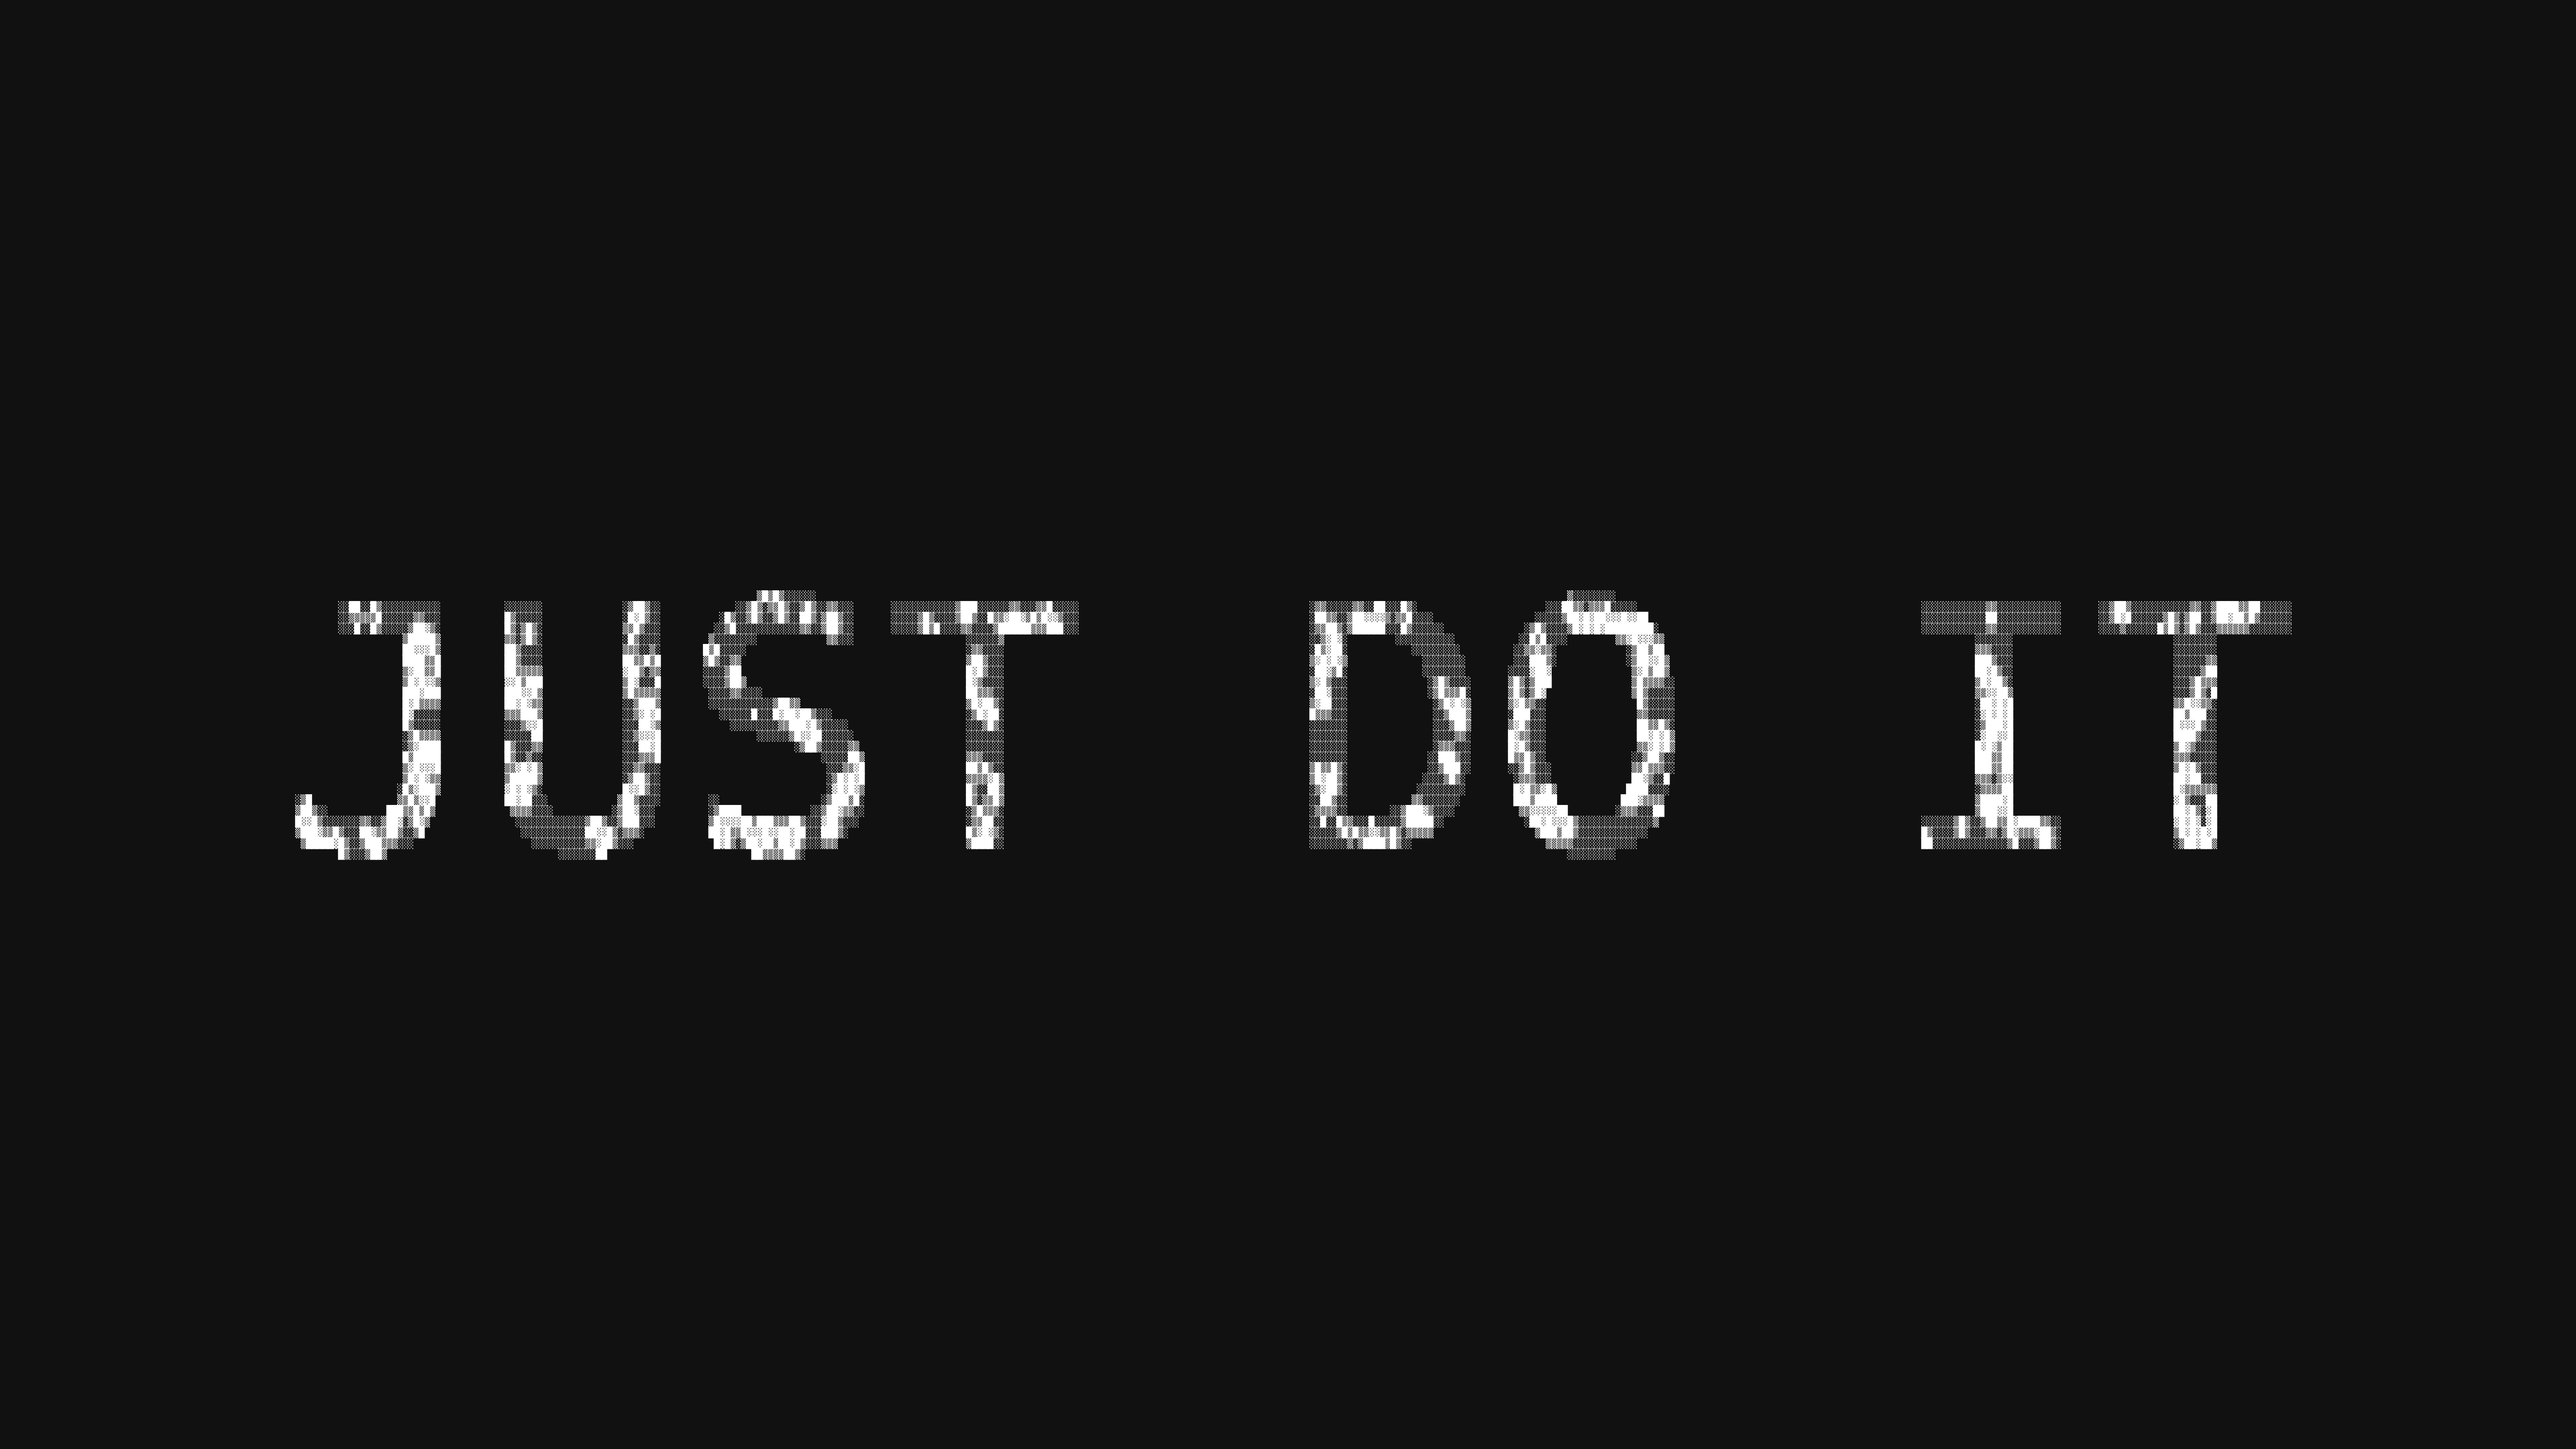
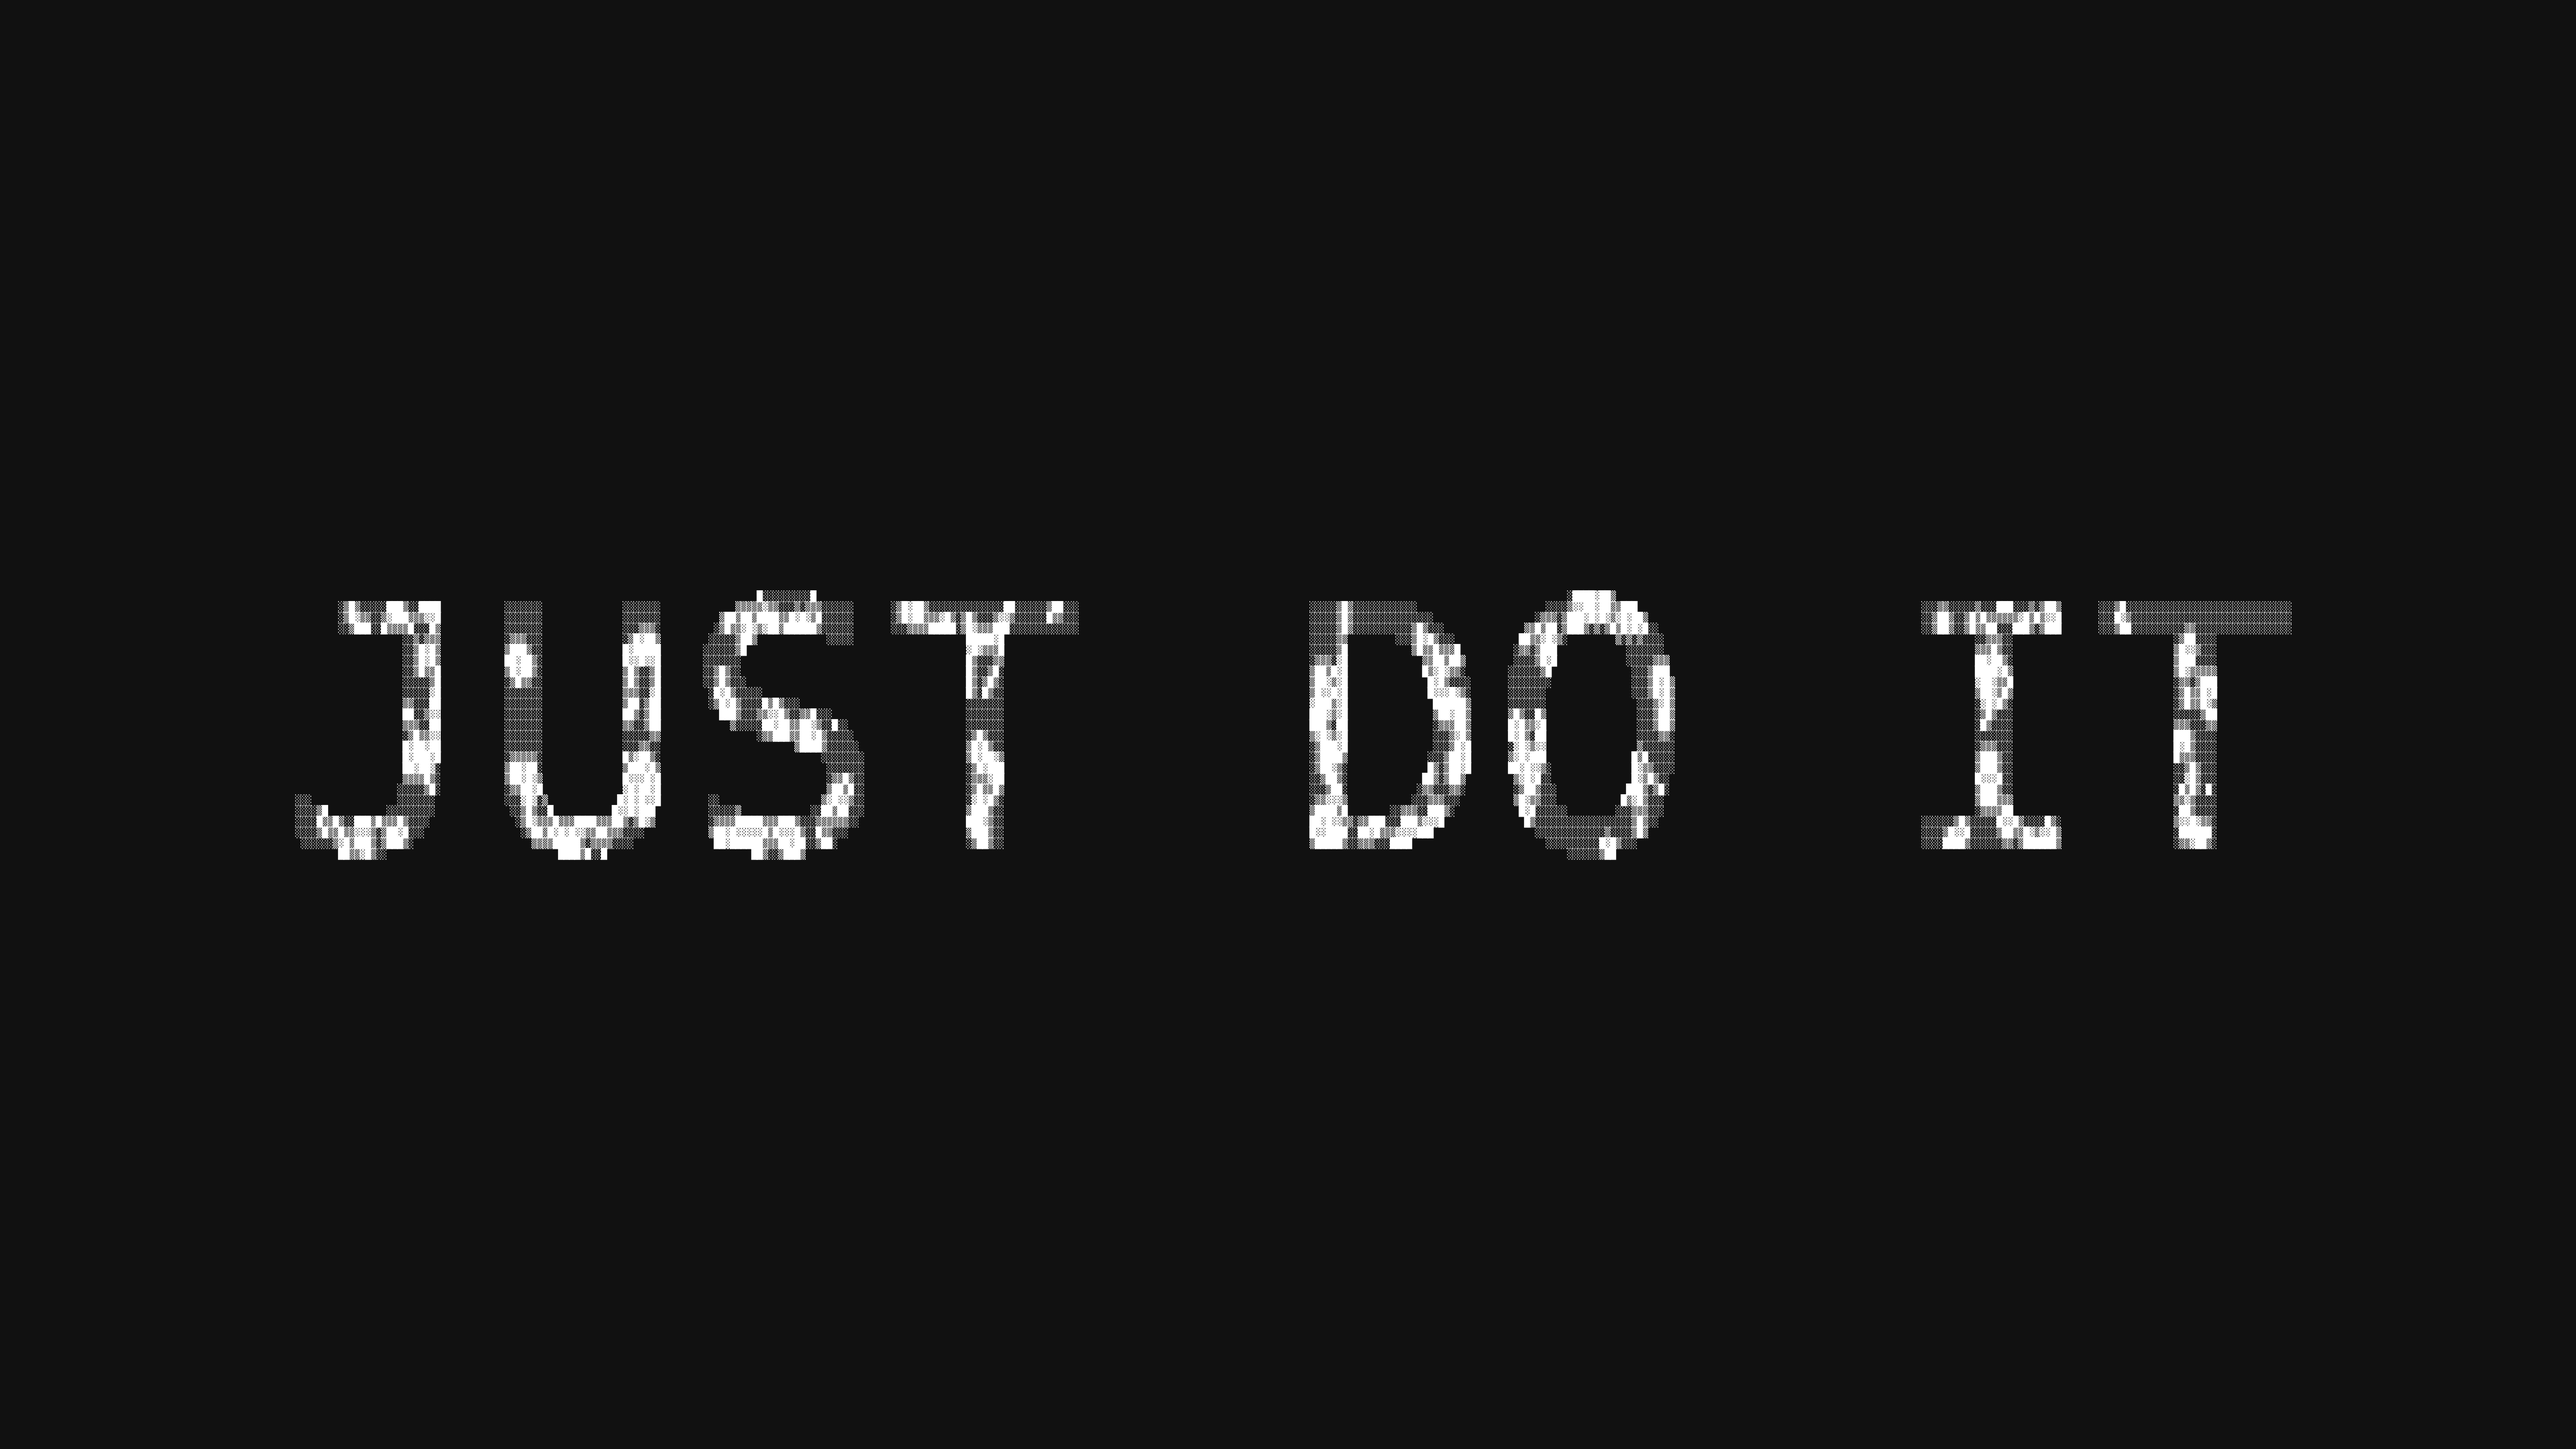
fix: isometric extrusion — proper filled side faces with depth gradient
- Rewrite _pil_isometric() using numpy slice assignment back-to-front layers
- Binarize source at threshold=128 before shifting: eliminates streaking from
  anti-aliased sub-pixel gaps between shifted layers
- Front face uses original anti-aliased pixels for smooth edges
- Brightness ramp: 0.20 (far back) -> 0.58 (nearest front) per layer
- depth_px calculated from depth_fraction * canvas_w (scales with canvas size)
- Result: solid filled side faces, visible depth gradient, clean front face

Changed region(s): [[0.0938, 0.4032, 0.4062, 0.5894], [0.5, 0.4032, 0.6562, 0.5894], [0.75, 0.4032, 0.875, 0.5894]]

diff --git a/scripts/generate_gallery.py b/scripts/generate_gallery.py
@@ -618,34 +618,68 @@ def _pil_isometric(
 ) -> "PIL.Image.Image":
     """Create isometric extrusion effect in image space.
 
+    Renders a filled 3D extrusion by compositing depth_px individual layers
+    back-to-front. Each layer is shifted 1px in the extrusion direction
+    (upper-right or upper-left) and progressively darkened. The front face
+    is rendered last at full brightness, producing a solid side face.
+
+    depth_px is derived from depth_fraction * canvas_w so it scales
+    proportionally with canvas size.
+
     :param text_img: PIL RGB image (white text on black).
     :param depth_fraction: Extrusion depth as fraction of canvas_w (default 0.04).
-    :param direction: 'right' (depth goes up-right) or 'left' (up-left).
+    :param direction: 'right' (extrudes upper-right) or 'left' (upper-left).
     :returns: PIL.Image ready for image_to_ascii().
     """
-    from PIL import Image, ImageEnhance
+    import numpy as np
+    from PIL import Image
 
     w, h = text_img.size
-    depth_px = max(1, int(depth_fraction * w))
+    depth_px = max(2, int(depth_fraction * w))  # e.g. 153px at 3840 wide
 
-    dx = depth_px if direction == "right" else -depth_px
-    depth_img = text_img.transform(
-        text_img.size, Image.AFFINE,
-        (1, 0, -dx, 0, 1, depth_px),
-        Image.BILINEAR, fillcolor=(0, 0, 0),
-    )
-    depth_img = ImageEnhance.Brightness(depth_img).enhance(0.4)
+    # Per-step direction: extrude upper-right (+x, -y) or upper-left (-x, -y)
+    step_x =  1 if direction == "right" else -1
+    step_y = -1  # always goes upward
 
-    import numpy as np
-    out = Image.new("RGB", text_img.size, (0, 0, 0))
-    # Use thresholded masks so anti-aliased edges don't create ghost bleed.
-    # Depth layer: paste only where depth pixels are bright (letter ink, not background)
-    depth_mask = depth_img.convert("L").point(lambda p: 255 if p > 20 else 0)
-    out.paste(depth_img, (0, 0), mask=depth_mask)
-    # Front face: paste only where source text pixels are bright
-    front_mask = text_img.convert("L").point(lambda p: 255 if p > 20 else 0)
-    out.paste(text_img, (0, 0), mask=front_mask)
-    return out
+    # Binarize the source: threshold at 50% brightness to get clean ink mask.
+    # Anti-aliased edges create sub-pixel grey values that leave gaps when shifted;
+    # binarizing fills those gaps so shifted layers stack solidly.
+    src_raw = np.array(text_img, dtype=np.float32)  # original (for front face)
+    threshold = 128.0
+    src_bin = np.where(src_raw > threshold, 255.0, 0.0)  # binarized
+    src = src_bin  # use binarized for extrusion layers
+    out = np.full((h, w, 3), 17.0, dtype=np.float32)  # dark background
+
+    # Ink mask from binarized source
+    src_ink = src.max(axis=2) > 128  # (H, W) bool
+
+    # Render depth layers back-to-front.
+    # Each shifted layer is painted over the previous; the front face wins last.
+    # brightness ramps from 0.20 (far) to 0.58 (nearest to front).
+    # To get a solid filled face we use numpy slice assignment — no gaps.
+    for d in range(depth_px, 0, -1):
+        ox = step_x * d
+        oy = step_y * d
+        brightness = 0.20 + 0.38 * (1.0 - d / depth_px)
+
+        sr0 = max(0, -oy);  sr1 = min(h, h - oy)
+        dr0 = max(0,  oy);  dr1 = min(h, h + oy)
+        sc0 = max(0, -ox);  sc1 = min(w, w - ox)
+        dc0 = max(0,  ox);  dc1 = min(w, w + ox)
+
+        # Shifted ink mask for this layer — only paint ink pixels, not background
+        layer_ink = src_ink[sr0:sr1, sc0:sc1]          # (slice_h, slice_w)
+        dest_slice = out[dr0:dr1, dc0:dc1]              # view into output
+        src_slice  = src[sr0:sr1, sc0:sc1]              # source RGB for this shift
+
+        # Paint every ink pixel in this layer (back-to-front, so later = closer)
+        dest_slice[layer_ink] = src_slice[layer_ink] * brightness
+
+    # Front face — use original (anti-aliased) pixels for smooth edges
+    front_ink = src_raw.max(axis=2) > 20
+    out[front_ink] = src_raw[front_ink]
+
+    return Image.fromarray(np.clip(out, 0, 255).astype(np.uint8))
 
 
 # -------------------------------------------------------------------------
